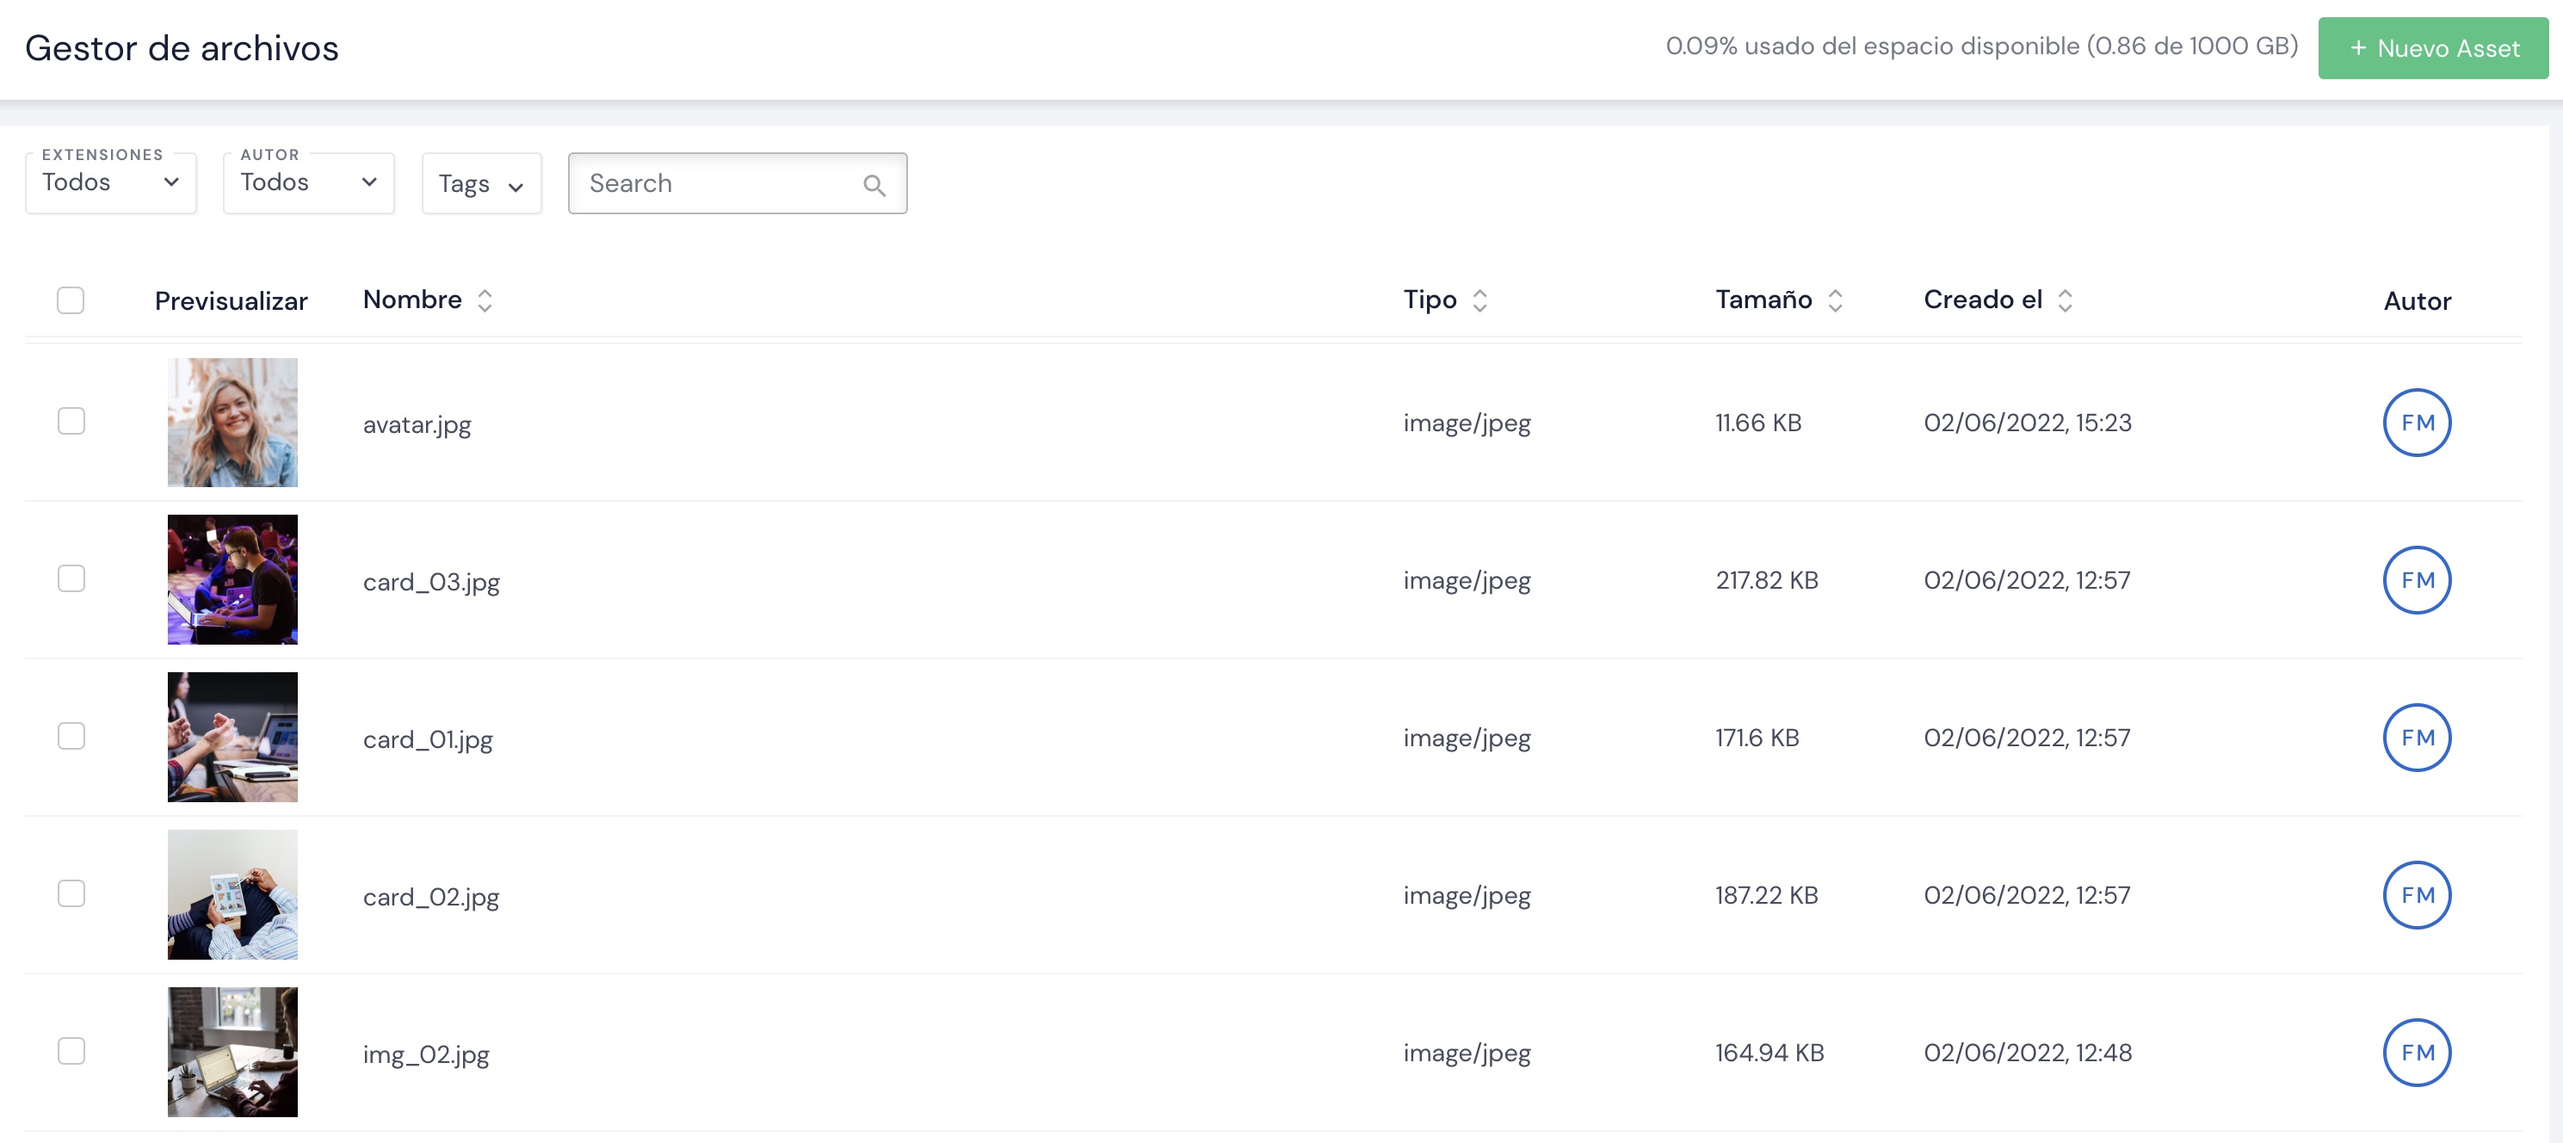
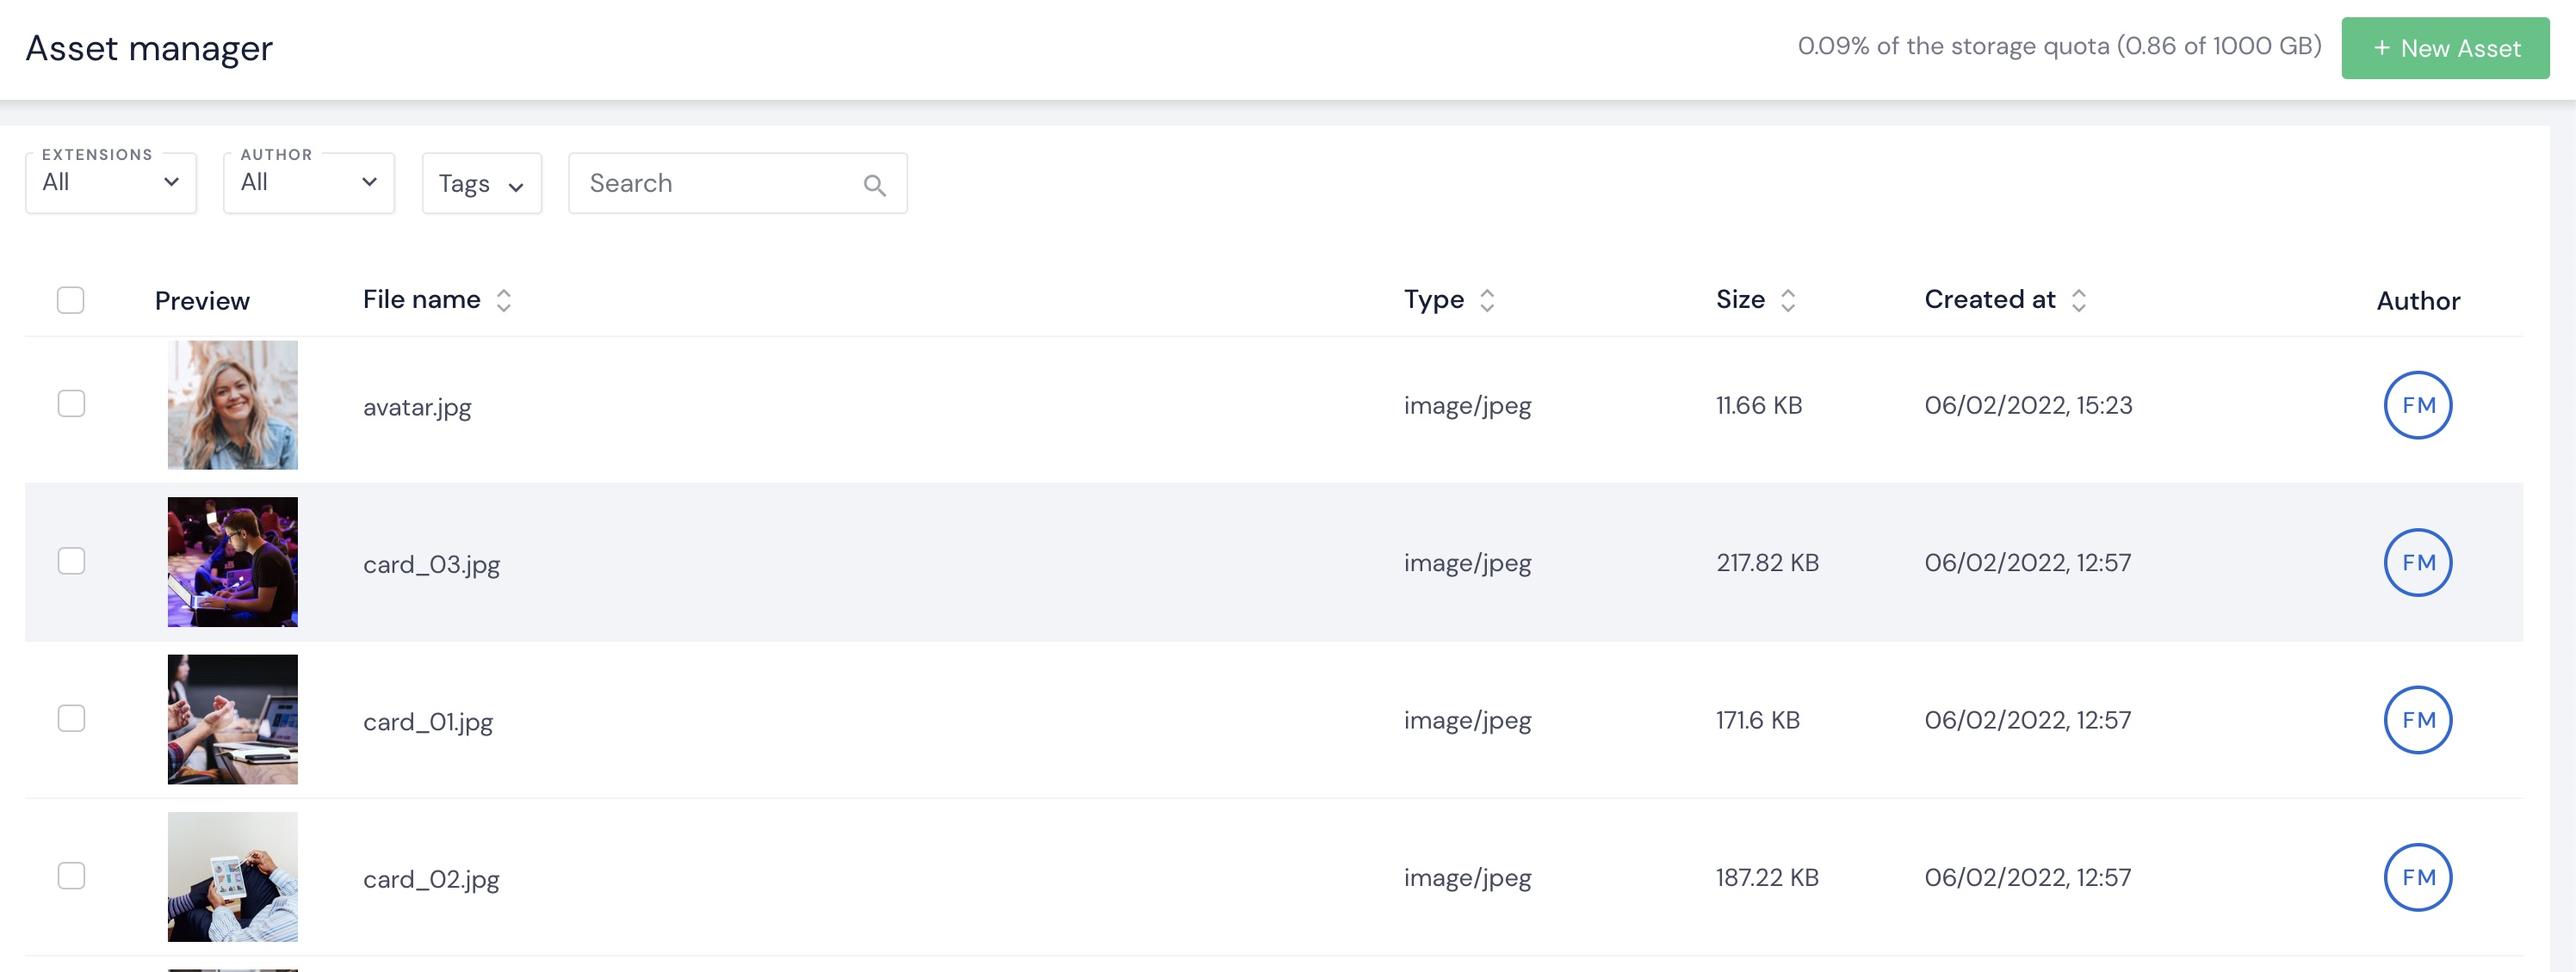
Cambiar imagen a ingles

diff --git a/docs/es/platform/content/asset-manager.md b/docs/es/platform/content/asset-manager.md
@@ -176,7 +176,7 @@ Esta acción es irreversible. Si este archivo se encuentra vinculado a un conten
 
 Hay dos formas de subir un archivo para usarse en **Modyo**. Una de ellas es a través de la misma sección desde la que se trabaja y otra es a través del Gestor de Archivos, que da la opción de tomar cualquier material del disco local para subirlo a la plataforma.
 
-Para subir el archivo, haz click en **Subir Archivo**.
+Para subir el archivo, haz click en **Añadir**.
 
 Esta acción abre una nueva ventana que permite subir los archivos de dos maneras:
 
